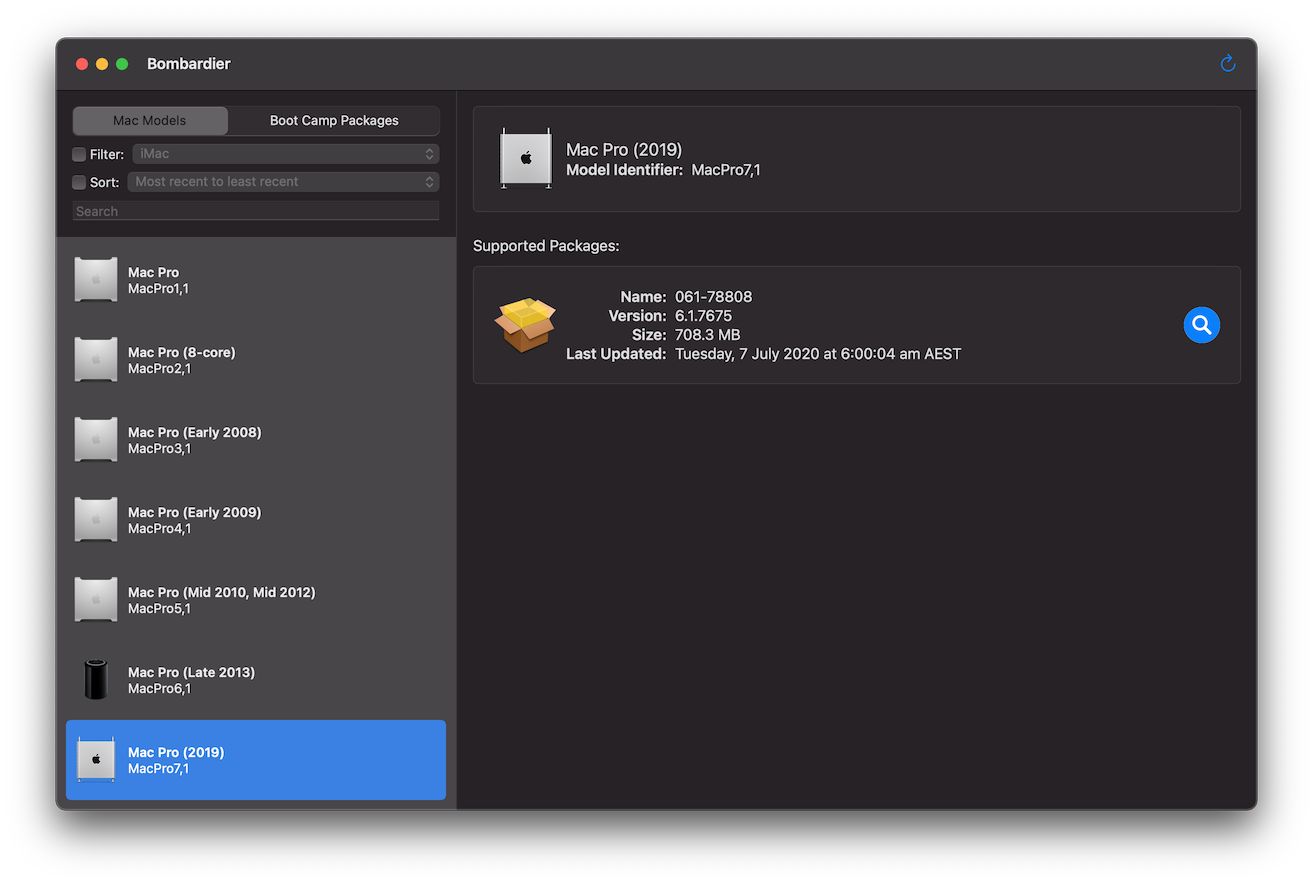
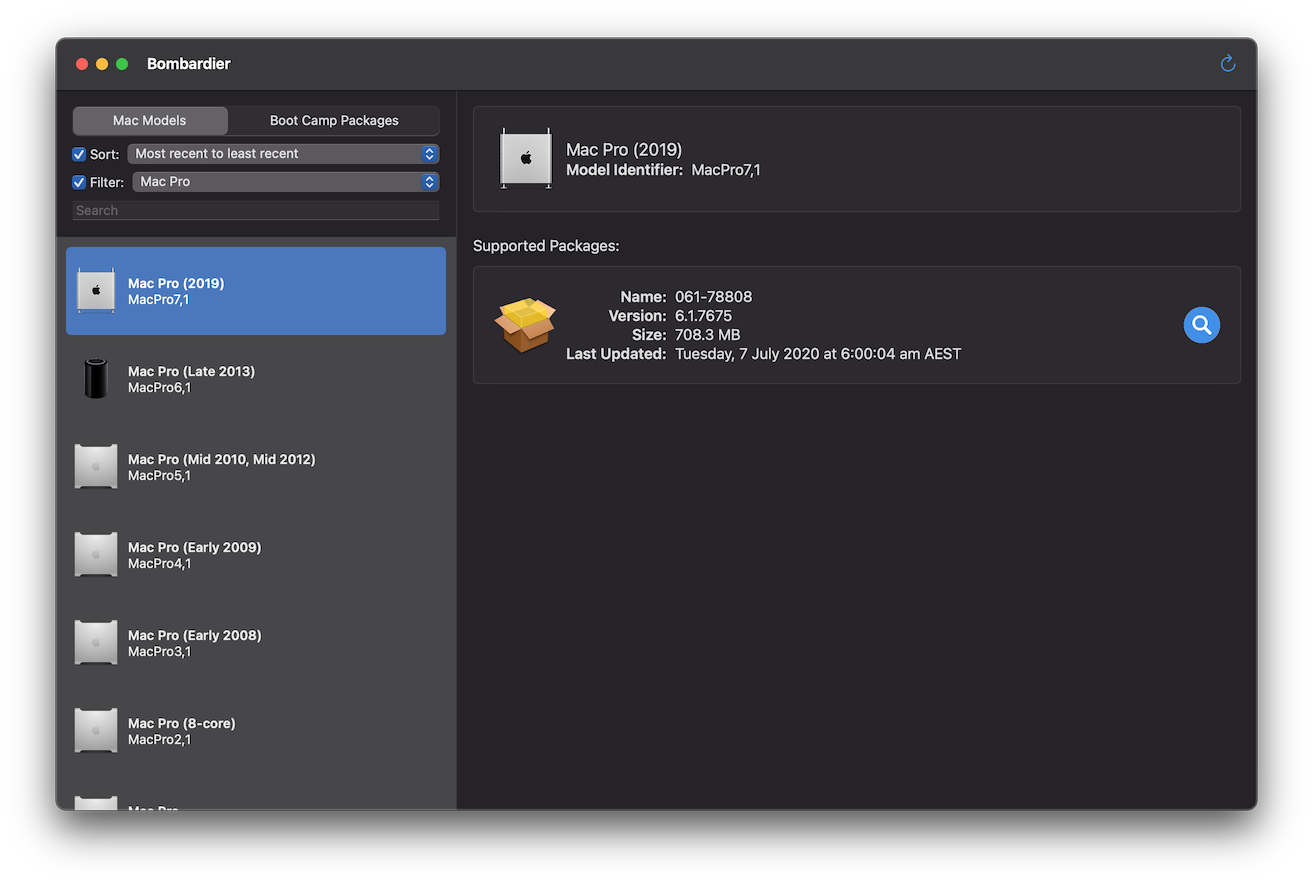
Flipped sort and filter positions

Changed region(s): [[0.0312, 0.2749, 0.3435, 0.9163], [0.0312, 0.1222, 0.3435, 0.2443], [0.9056, 0.336, 0.9368, 0.3971]]

diff --git a/Bombardier/Views/Sidebar/Sidebar.swift b/Bombardier/Views/Sidebar/Sidebar.swift
@@ -34,17 +34,6 @@ struct Sidebar: View {
                 .labelsHidden()
                 .controlSize(.large)
                 HStack {
-                    Toggle("Filter:", isOn: $filter)
-                    Picker("Filter", selection: $family) {
-                        ForEach(Model.Family.allCases) { type in
-                            Text(type.description)
-                                .tag(type)
-                        }
-                    }
-                    .labelsHidden()
-                    .disabled(!filter)
-                }
-                HStack {
                     Toggle("Sort:", isOn: $sort)
                     Picker("Sort", selection: $ascending) {
                         Text("Most recent to least recent")
@@ -54,6 +43,17 @@ struct Sidebar: View {
                     }
                     .labelsHidden()
                     .disabled(!sort)
+                }
+                HStack {
+                    Toggle("Filter:", isOn: $filter)
+                    Picker("Filter", selection: $family) {
+                        ForEach(Model.Family.allCases) { type in
+                            Text(type.description)
+                                .tag(type)
+                        }
+                    }
+                    .labelsHidden()
+                    .disabled(!filter)
                 }
                 TextField("Search", text: $searchString)
             }

diff --git a/README.md b/README.md
@@ -10,7 +10,7 @@ Bombardier is my homage to [brigadier](https://github.com/timsutton/brigadier), 
 
 *   [x] One click download of Boot Camp drivers
     *   The Boot Camp driver disk image (**DMG**) is automatically extracted from the downloaded Package (**PKG**)
-    *   You can filter / sort / search any way to help narrow down the **Mac Models** / **Boot Camp Packages** you are looking for
+    *   You can sort / filter / search any way to help narrow down the **Mac Models** / **Boot Camp Packages** you are looking for
     *   Boot Camp drivers are downloaded to a folder of your choosing (default: `~/Downloads/Bombardier`)
 *   [x] Launching Bombardier will automatically update:
     *   The list of Mac Models
